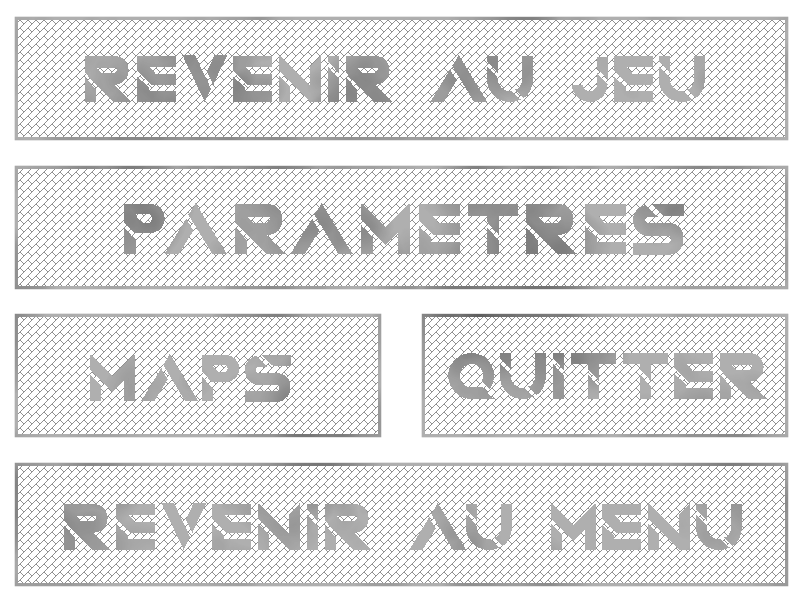
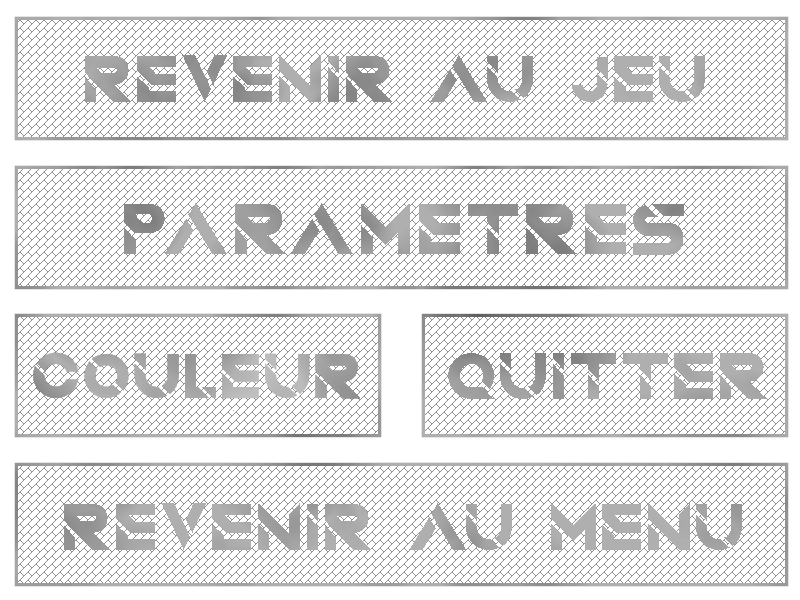
+ bouton pour activer / desactiver le roulement de couleur (ds le menu pause)

Changed region(s): [[0.0312, 0.57, 0.4688, 0.69]]

diff --git a/main.py b/main.py
@@ -33,21 +33,23 @@ son.f_music(volume)
 
 # Game Loop
 color_timer = t.time()
+break_timer = color_timer
+change_color = True
 while running:
 
-    mouse.set_visible(False)
-    pg.display.set_caption(f"Raycasting - {int(clock.get_fps())}") # Change le titre de la fenetre avec les fps
-
-    for event in pg.event.get():
-        ExitWindow(event)
-        if event.type == pg.KEYDOWN:
-            if event.key == pg.K_ESCAPE:  # Si le joueur veut faire pause 
-                son.sound_effects(0)
-                Pause()  # affiche le menu pause
-                son.sound_effects(volume)
-                mouse.set_visible(False)
-
     if mouse.get_focused():
+        mouse.set_visible(False)
+        pg.display.set_caption(f"Raycasting - {int(clock.get_fps())}") # Change le titre de la fenetre avec les fps
+
+        get_pressed = pg.key.get_pressed()
+        if get_pressed[pg.K_ESCAPE] and t.time() - break_timer > 0.5:
+            change_color = Pause(change_color)  # affiche le menu pause
+            mouse.set_visible(False)
+            break_timer = t.time()
+
+        for event in pg.event.get():
+            ExitWindow(event)
+
         from constantes import speed
 
         # Permet au joueur de se deplacer et de gerer les collisions
@@ -82,16 +84,19 @@ while running:
         # HP_indicator(50)
 
         screen.blit(Crosshair, Crosshair_coord)  # Affichage du viseur
-    color_timer_difference = t.time() - color_timer
-    if color_timer_difference >= 5:
-        color_timer += color_timer_difference
-        if wall_color != 3:
-            wall_color += 1
-        else:
-            wall_color = 0
-    pg.display.flip()
 
-    clock.tick(60)
+        if change_color:
+            color_timer_difference = t.time() - color_timer
+            if color_timer_difference >= 5:
+                color_timer += color_timer_difference
+                if wall_color != 3:
+                    wall_color += 1
+                else:
+                    wall_color = 0
+
+            clock.tick(60)
+        pg.display.flip()
+
 
 pg.mixer.quit()
 pg.quit()  # Ferme la boucle de jeu et donc la fenetre

diff --git a/menu.py b/menu.py
@@ -1,4 +1,5 @@
 import time
+import typing
 import webbrowser
 import sys
 
@@ -151,7 +152,7 @@ def Parametres(background):
     return
 
 
-def Pause():
+def Pause(change_color):
     mouse.set_visible(True)
     Button_Coord = [
         (15, 17, 788, 144),
@@ -166,15 +167,14 @@ def Pause():
     inpause = True
 
     dark_bg(220)
+    anti_spam = t.time()
     while inpause:
 
         for event in pg.event.get():
             ExitWindow(event)
             if event.type == pg.KEYDOWN:
                 if event.key == pg.K_ESCAPE:
-                    return
-            pg.display.flip()
-            clock.tick(60)
+                    return change_color
 
         get_clicked = mouse.get_pressed()
         screen.blit(menu_pause, (x, y))
@@ -187,12 +187,21 @@ def Pause():
                         mouse.set_pos(MID_POINT)
                     elif index == 1:
                         Parametres(background)
-                        return
-                    elif index == 2:
-                        print("Maps")
+                        return change_color
+                    elif index == 2 and t.time() - anti_spam >= 1:
+                        anti_spam = t.time()
+                        if change_color:
+                            change_color = False
+                            print("Changement de couleur désactivé" + str(change_color))
+                        else:
+                            change_color = True
+                            print("Changement de couleur activé")
                     elif index == 3:
                         sys.exit()
                     elif index == 4:
                         inpause = False
                         FonduIn()
                         Menu()
+        pg.display.flip()
+        clock.tick(60)
+    return change_color

diff --git a/functions.py b/functions.py
@@ -10,7 +10,6 @@ from maps import maps
 def ExitWindow(event): # fonction qui fait quitter le jeu si le joueur appuye sur quit (boutton defini par ses dimensions)
     if event.type == pg.QUIT:
         pg.quit()
-        sys.exit()
     else:
         return True
 
